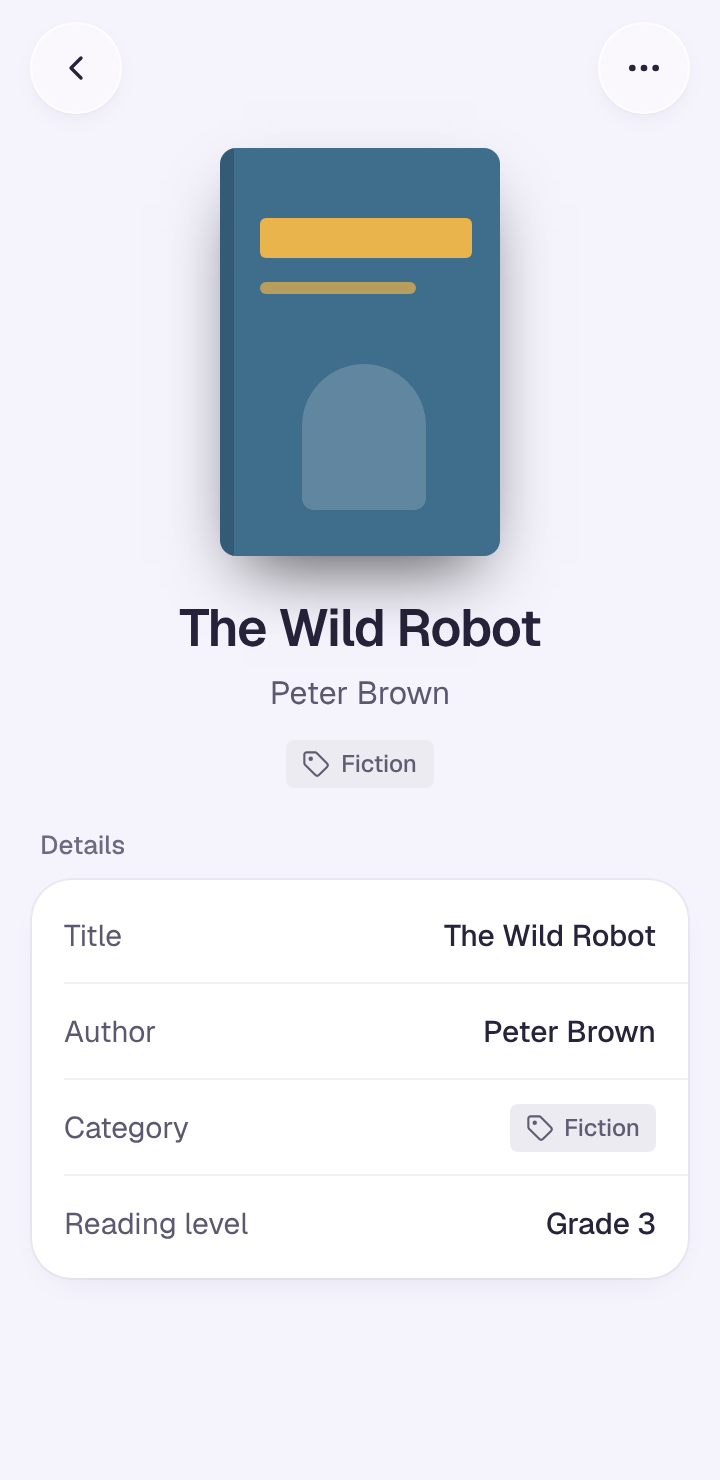
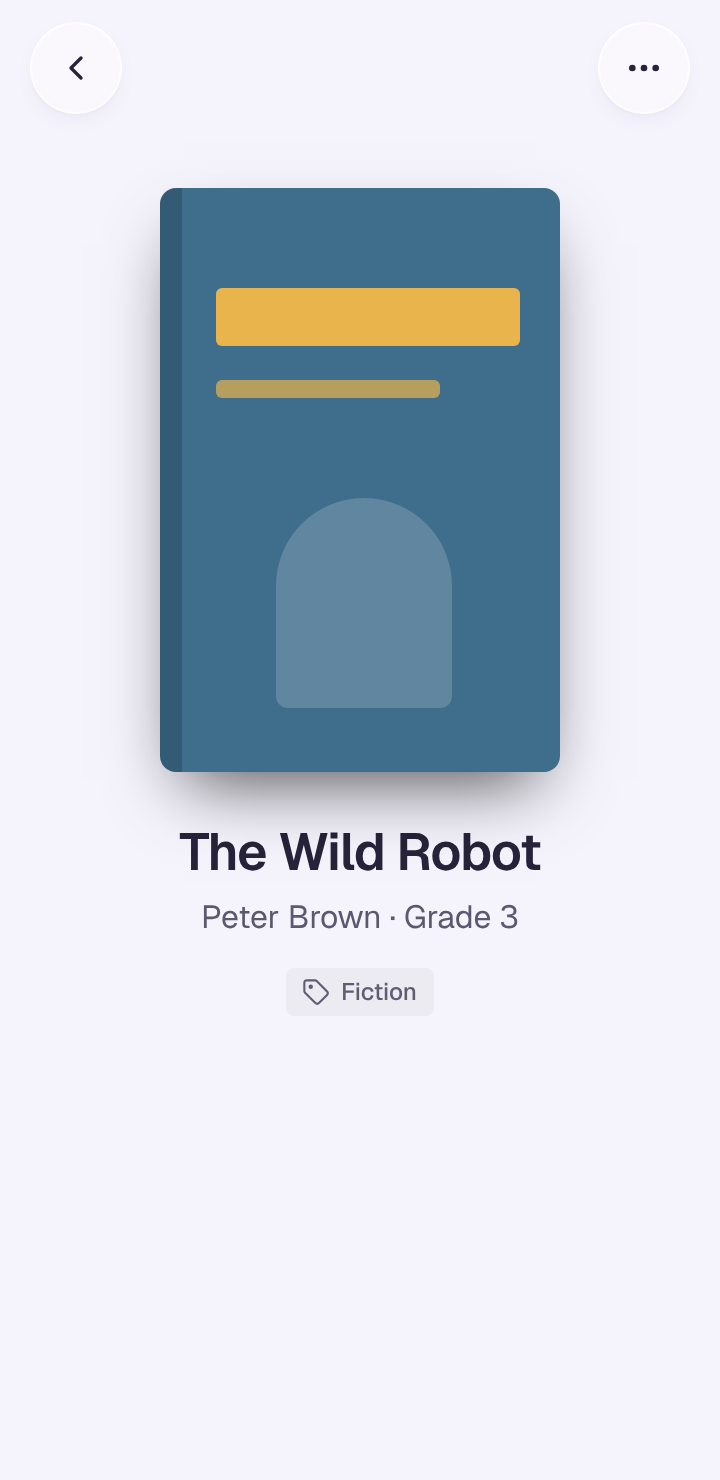
docs(goho): drop the details card from book details
- Build book details around the book: larger 200x292dp cover, title, author with reading level, category tag
- Remove the Details card that repeated the hero
- Scale the generated cover to the new cover size
- Regenerate the book details mockups

diff --git a/.agents/skills/goho-design/references/screens.md b/.agents/skills/goho-design/references/screens.md
@@ -297,25 +297,29 @@ Native list-only implementation of the October 22 design (`nav-add-closed-*.png`
 
 ## 9. Book details (cover first)
 
-Approved design, October 22, 2026; not implemented. Book rows are display-only today; when this page is built, tapping a saved book opens it. Mockups: `book-details-light.png`, `book-details-dark.png`, `book-details-no-cover-light.png`, `book-details-no-cover-dark.png`, `book-details-loading-light.png`, `book-details-cover-loading-dark.png`, `book-details-options-light.png`, `book-details-confirm-dark.png` and `book-details-delete-error-light.png`. Books and covers in them are sample data.
+Approved design, October 22, 2026 (revised the same day: no Details card, larger cover); not implemented. The page is the book: cover, title, author and category, with nothing repeated below. Book rows are display-only today; when this page is built, tapping a saved book opens it. Mockups: `book-details-light.png`, `book-details-dark.png`, `book-details-no-cover-light.png`, `book-details-no-cover-dark.png`, `book-details-loading-light.png`, `book-details-cover-loading-dark.png`, `book-details-options-light.png`, `book-details-confirm-dark.png` and `book-details-delete-error-light.png`. Books and covers in them are sample data.
 
 Opened by tapping a saved book row. Rows still reading a cover are not tappable; Not processed book scans open the options sheet with Delete scan (`DELETE /book-uploads/{uploadId}`), exactly as Not processed receipts do. Read-only: data from `GET /books/{bookId}`, cover from `GET /books/{bookId}/image` only when `hasImage` is true.
 
 **Top bar**: identical to receipt details (variant 2/Grey back and “More options” round buttons, no title).
 
-**Cover** (books with `hasImage` only; 12 below the bar, centered): the cover image at `bookCover` 140×204dp, `ContentScale.Crop` inside shape `cover` (8dp), a 1dp `outline` ring and a soft drop shadow (0/16/34dp, black at 45% dark / `shadow` at 30% light, −12dp spread). It sits directly on the background, not in a photo frame. Tap opens the existing photo viewer with the uncropped image; accessibility action “View book cover”, viewer description “Book cover, {title}”. While the image is loading, show a `cover`-shaped skeleton mask of the same size that is not tappable.
+**Cover** (books with `hasImage` only; 32 below the bar, centered): the cover image at `bookCover` 200×292dp, `ContentScale.Crop` inside shape `cover` (8dp), a 1dp `outline` ring and a soft drop shadow (0/16/34dp, black at 45% dark / `shadow` at 30% light, −12dp spread). It sits directly on the background, not in a photo frame. Tap opens the existing photo viewer with the uncropped image; accessibility action “View book cover”, viewer description “Book cover, {title}”. While the image is loading, show a `cover`-shaped skeleton mask of the same size that is not tappable.
 
-**Generated cover** (approved October 22, 2026, “cloth”; `hasImage` false, or the image fails to load): keep the same 140×204dp `cover` slot so every book page has the same shape, and draw a clothbound book in the category colour with the title and author printed straight on it. Cloth: the category `TagColor` content colour in light mode; in dark mode, the dark container mixed 24% toward the dark content colour. Spine: a 10dp band on the leading edge in the cloth colour mixed 28% toward black, followed by a 1.5dp highlight in white at 22% (light) / 10% (dark). Text, in one same-hue contrasting colour: the category `TagColor` container in light mode, and the dark content colour mixed 40% toward white in dark mode (5.2:1 or better on the cloth in every colour). Title in `bookCoverTitle` (16/20sp SemiBold, −0.01em) at 18dp top, 24dp start (past the spine) and 14dp end, up to 5 lines with an ellipsis. Author in 12/16sp Medium, one line with an ellipsis, 14dp from the bottom with the same side insets. No label, card or rule. The slot keeps a 1dp inset ring (black 8% light, white 6% dark) and the same shadow as a real cover. It is decorative: not tappable, no viewer, and hidden from accessibility (the hero already announces the title and author). Unknown category colours use Grey (Fiction and Nonfiction are Grey today). The Books list uses the small version of this cover (see `BookCover` in components.md).
+**Generated cover** (approved October 22, 2026, “cloth”; `hasImage` false, or the image fails to load): keep the same 200×292dp `cover` slot so every book page has the same shape, and draw a clothbound book in the category colour with the title and author printed straight on it. Cloth: the category `TagColor` content colour in light mode; in dark mode, the dark container mixed 24% toward the dark content colour. Spine: a 14dp band on the leading edge in the cloth colour mixed 28% toward black, followed by a 2dp highlight in white at 22% (light) / 10% (dark). Text, in one same-hue contrasting colour: the category `TagColor` container in light mode, and the dark content colour mixed 40% toward white in dark mode (5.2:1 or better on the cloth in every colour). Title in `bookCoverTitle` (22/28sp SemiBold, −0.01em) at 26dp top, 34dp start (past the spine) and 20dp end, up to 5 lines with an ellipsis. Author in 16/20sp Medium, one line with an ellipsis, 20dp from the bottom with the same side insets. No label, card or rule. The slot keeps a 1dp inset ring (black 8% light, white 6% dark) and the same shadow as a real cover. It is decorative: not tappable, no viewer, and hidden from accessibility (the hero already announces the title and author). Unknown category colours use Grey (Fiction and Nonfiction are Grey today). The Books list uses the small version of this cover (see `BookCover` in components.md).
 
-**Hero** (20 below the cover or generated cover; 24dp side padding, centered text):
+**Hero** (24 below the cover or generated cover; 24dp side padding, centered text):
+
+- Title in `bookTitle` (26/32sp SemiBold, −0.02em), `textPrimary`, wrapping on as many lines as it needs; never truncated.
+- 6dp below: author, then “ · reading level” when one is set (as in the list row), in `rowTitle` weight 400 (16/22sp), `textSecondary`; wraps if needed.
+- 14dp below: the book’s category as a labelled `Tag`, using the server `icon` and `color` keys like receipt categories, with the name in sentence case.
+
+**No Details card.** Title, author, reading level and category are all in the hero, so nothing is repeated below it. The page ends after the tag; on short books it is mostly calm background. When the content is taller than the screen (long titles, large font scales) the page scrolls as one column.
 
 - Title in `bookTitle` (26/32sp SemiBold, −0.02em), `textPrimary`, wrapping on as many lines as it needs; never truncated.
 - 6dp below: author in `rowTitle` weight 400 (16/22sp), `textSecondary`.
 - 12dp below: the book’s category as a labelled `Tag`, using the server `icon` and `color` keys like receipt categories, with the name in sentence case.
 
-**Details** (24 below the hero): section label “Details”, then a read-only DetailList: Title, Author, Category (the same `Tag`, right-aligned) and Reading level. Omit the Reading level row when it is null. Long values wrap and stay right-aligned; labels keep their width. No footer.
-
-**Loading**: reuse the layout under `SkeletonScope` after 200ms of pending work: cover mask (when the row’s summary says it has a cover, or always on a cold open), title and author line masks, tag mask, and four detail rows. Back stays available; More hides until loaded. Announce “Loading book…” once. A book known to have no cover shows its generated cover once loaded. Failure uses the existing details retry state with “We couldn’t load this book. Let’s try again.”
+**Loading**: reuse the layout under `SkeletonScope` after 200ms of pending work: cover mask (when the row’s summary says it has a cover, or always on a cold open), then title, author and tag masks. No detail rows. Back stays available; More hides until loaded. Announce “Loading book…” once. A book known to have no cover shows its generated cover once loaded. Failure uses the existing details retry state with “We couldn’t load this book. Let’s try again.”
 
 **Deleting a book**: More opens the shared options sheet with the book’s list-row summary as its header (cover thumbnail, title, author · reading level, category tag). The only action is “Delete book” (trash icon, `onDangerContainer`). Confirmation, “Deleting…”, the failure line “Couldn’t delete this book. Try again.” and dismissal rules match section 5, with no heading or description. On success the sheet drops, details goes back, and the row folds out of the Books list. `DELETE /books/{bookId}` also removes the book’s scans and cover; there is no undo.
 

diff --git a/.agents/skills/goho-design/references/tokens.md b/.agents/skills/goho-design/references/tokens.md
@@ -217,4 +217,4 @@ Motion: native `SECTION_MENU_ENTER_MILLIS` = 160 / `SECTION_MENU_EXIT_MILLIS` = 
 
 ## Book details
 
-Approved October 22, 2026 (`screens.md` section 8). `bookCover` = 140×204dp (about 2:3), shape `cover` 8dp, 1dp `outline` ring, shadow 0/16/34dp with −12dp spread (black 45% in dark, `shadow` 30% in light). `bookTitle` = 26/32sp, weight 600, −0.02em, centered, unlimited lines. Author uses 16/22sp Regular in `textSecondary`. Spacing: cover 12 below the top bar, hero 20 below the cover, author 6 below the title, tag 12 below the author, Details label 24 below the hero. Book list thumbnails stay 40×56dp with the `thumb` shape. Generated cover (no image, “cloth”): cloth = category `TagColor` content (light) or dark container mixed 24% toward dark content (dark); 10dp spine in the cloth mixed 28% toward black plus a 1.5dp white highlight (22% light / 10% dark); text = `TagColor` container (light) or dark content mixed 40% toward white (dark), at least 5.2:1 on the cloth; `bookCoverTitle` = 16/20sp SemiBold −0.01em (max 5 lines) at 18 top / 24 start / 14 end; author 12/16sp Medium (1 line), 14 from the bottom. List thumbnails use the 40×56dp version with a 3dp spine and bar marks instead of text.
+Approved October 22, 2026 (`screens.md` section 9). `bookCover` = 200×292dp (about 2:3), shape `cover` 8dp, 1dp `outline` ring, shadow 0/16/34dp with −12dp spread (black 45% in dark, `shadow` 30% in light). `bookTitle` = 26/32sp, weight 600, −0.02em, centered, unlimited lines. Author uses 16/22sp Regular in `textSecondary`. Spacing: cover 32 below the top bar, hero 24 below the cover, author line 6 below the title, tag 14 below the author line. No Details card. Book list thumbnails stay 40×56dp with the `thumb` shape. Generated cover (no image, “cloth”): cloth = category `TagColor` content (light) or dark container mixed 24% toward dark content (dark); 14dp spine in the cloth mixed 28% toward black plus a 2dp white highlight (22% light / 10% dark); text = `TagColor` container (light) or dark content mixed 40% toward white (dark), at least 5.2:1 on the cloth; `bookCoverTitle` = 22/28sp SemiBold −0.01em (max 5 lines) at 26 top / 34 start / 20 end; author 16/20sp Medium (1 line), 20 from the bottom. List thumbnails use the 40×56dp version with a 3dp spine and bar marks instead of text.

diff --git a/.agents/skills/goho-design/assets/mockups/README.md b/.agents/skills/goho-design/assets/mockups/README.md
@@ -8,7 +8,7 @@ The current family icon sources and Android resources are documented in the [lau
 
 Design renders from the Goho brand canvas (“Book details”) at 360dp width and 2× (720×1480px). The [section 9 spec](../../references/screens.md#9-book-details-cover-first) wins where they differ. Books and covers are illustrative sample data.
 
-- `book-details-light.png`, `book-details-dark.png`: cover first, centered title, author and category tag, then the Details card.
+- `book-details-light.png`, `book-details-dark.png`: cover first, centered title, author · reading level and category tag; no Details card.
 - `book-details-no-cover-light.png`, `book-details-no-cover-dark.png`: the generated “cloth” cover for books without a cover image (category colour cloth, darker spine, title and author printed in a same-hue contrasting colour); the light one also has no reading level and a long title that the cover truncates while the hero wraps it.
 - `books-generated-covers-light.png`, `books-generated-covers-dark.png`: the Books list with the small generated cover for books without a cover image, in each category colour, beside an illustrative real cover.
 - `book-details-loading-light.png`, `book-details-cover-loading-dark.png`: initial loading, and a loaded book whose cover is still loading.
